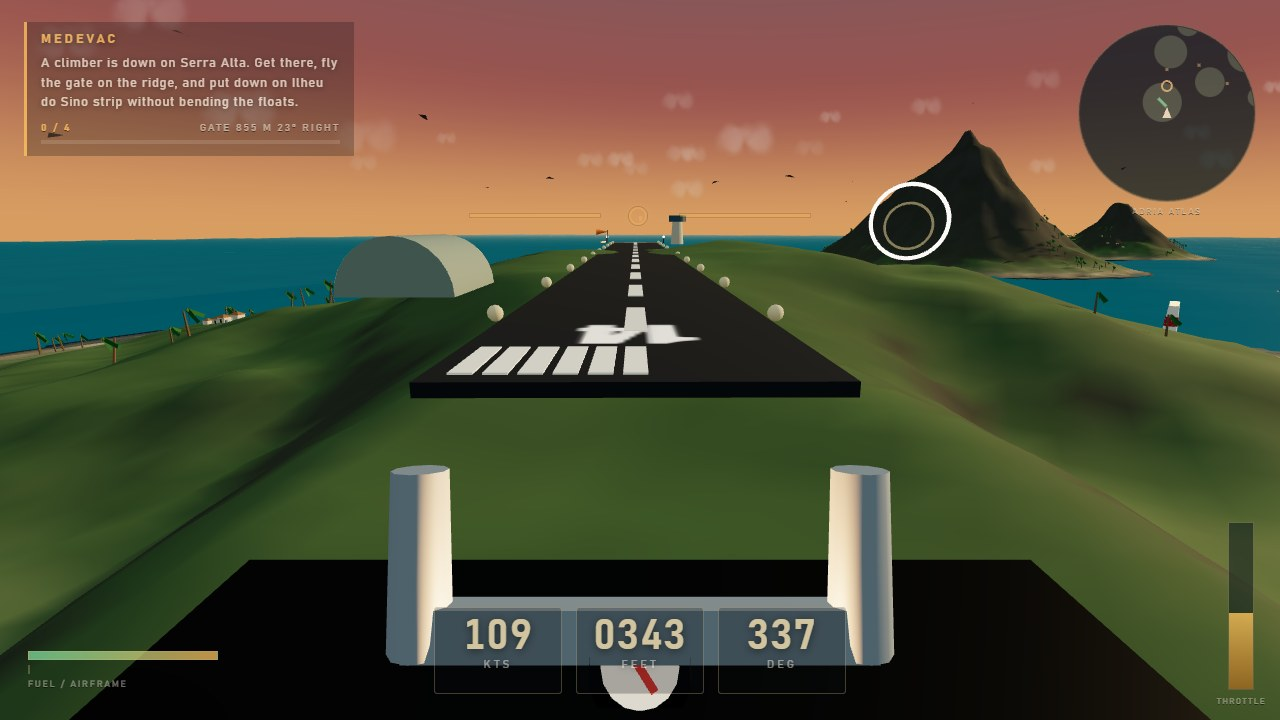
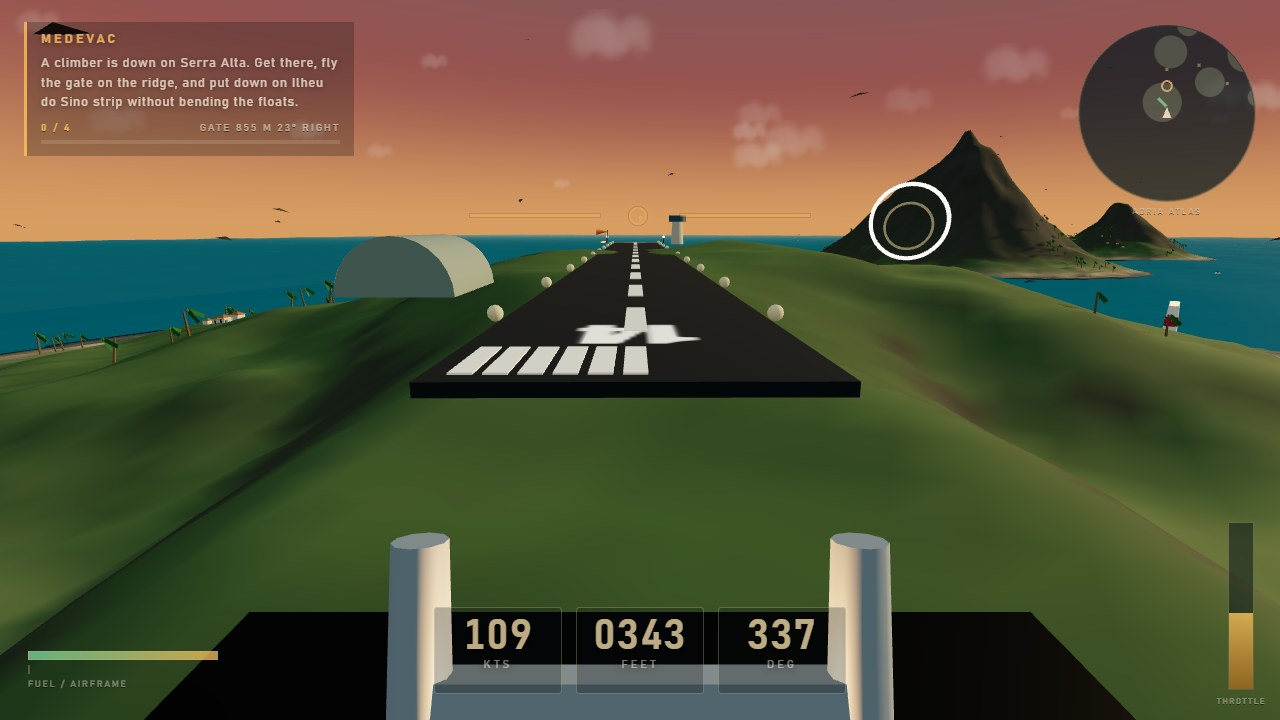
Touchdown spray and camera kick; shot-only cockpit framing; play HUD at full strength

diff --git a/game/src/main.js b/game/src/main.js
@@ -15,6 +15,7 @@ import { buildCourse } from './game/gates.js';
 import { createMission } from './game/missions.js';
 import { buildTraffic } from './game/traffic.js';
 import { createThreat } from './game/threat.js';
+import { createSpray } from './render/spray.js';
 import { createDamage } from './aircraft/damage.js';
 import { createHud } from './ui/hud.js';
 import { createScreens } from './ui/screens.js';
@@ -35,6 +36,7 @@ buildBridge(scene);
 const sea = terrain.children.find((child) => child.userData?.wave);
 const traffic = buildTraffic(scene);
 const threat = createThreat(scene);
+const spray = createSpray(scene);
 let damage = null;
 const rig = createCameraRig(camera);
 const cockpit = buildCockpit();
@@ -100,7 +102,6 @@ function begin() {
   chosen = pickKind();
   screens.hideAll();
   const hudEl = document.getElementById('hud');
-  hudEl.classList.add('shot-hud');
   hudEl.classList.remove('hidden-hud');
   mount(chosen);
   state = 'flying';
@@ -214,8 +215,18 @@ function frame() {
     elapsed += dt;
     audio.update(plane.throttle, plane.speed);
     plane.speedCap = damage?.power() ?? 1;
+    const wasDown = plane.onGround;
     if (state === 'flying') plane.update(dt, readInput());
     else plane.update(dt, inputIdle);
+    if (plane.onGround && !wasDown && plane.alive) {
+      const heavy = plane.lastImpact > 5;
+      const gear = plane.position.clone();
+      gear.y = plane.groundHeight + 0.3;
+      spray.burst(gear, heavy, plane.onWater);
+      rig.kick(heavy ? 1.5 : 0.7);
+      audio.thud(heavy ? 0.8 : 0.45);
+    }
+    spray.update(dt);
     rig.update(plane, dt, plane.speed / 140);
     damage?.update(dt);
     damage?.frame(dt);
@@ -259,7 +270,6 @@ function restart() {
   if (state === 'flying') return;
   screens.hideAll();
   const hudEl = document.getElementById('hud');
-  hudEl.classList.add('shot-hud');
   hudEl.classList.remove('hidden-hud');
   mount(chosen);
   state = 'flying';
@@ -333,6 +343,11 @@ if (shot) {
   plane.speed = pose.speed;
   plane.setThrottle(pose.throttle);
   rig.mode = pose.camera;
+  // A still frame wants the furniture out of the sightline: bigger and lower in the cockpit view.
+  if (pose.camera === 'cockpit') {
+    cockpit.scale.setScalar(1.2);
+    cockpit.position.y = -0.085;
+  }
   // Debug switches: ?hide=sea|clouds lets a probe isolate what a reviewer is seeing.
   const hide = new URLSearchParams(location.search).get('hide');
   if (hide) scene.traverse((o) => {

diff --git a/game/src/render/spray.js b/game/src/render/spray.js
@@ -1,0 +1,62 @@
+// Touchdown spray: water off the floats or dust off the strip, thrown from the gear on contact
+// and gone in a moment. Small on purpose — it reads as weight, not weather.
+
+import * as THREE from 'three';
+
+const COUNT = 14;
+
+export function createSpray(scene) {
+  const group = new THREE.Group();
+  scene.add(group);
+
+  const geometry = new THREE.BufferGeometry();
+  const positions = new Float32Array(COUNT * 3);
+  geometry.setAttribute('position', new THREE.BufferAttribute(positions, 3));
+  const material = new THREE.PointsMaterial({
+    size: 1.6,
+    sizeAttenuation: true,
+    transparent: true,
+    depthWrite: false,
+    opacity: 0,
+    color: '#ddd3c0',
+  });
+  const points = new THREE.Points(geometry, material);
+  group.add(points);
+
+  const velocity = Array.from({ length: COUNT }, () => new THREE.Vector3());
+  let life = 0;
+
+  return {
+    // Kick a burst out from under the floats: wet if the contact was on water.
+    burst(position, heavy, wet) {
+      material.color.set(wet ? '#e7f2f4' : '#ddd3c0');
+      life = heavy ? 1.1 : 0.7;
+      for (let i = 0; i < COUNT; i++) {
+        const side = i % 2 ? 1 : -1;
+        positions[i * 3] = position.x + side * (0.6 + Math.random() * 0.8);
+        positions[i * 3 + 1] = position.y + Math.random() * 0.5;
+        positions[i * 3 + 2] = position.z + (Math.random() - 0.5) * 2.4;
+        velocity[i].set(side * (3 + Math.random() * 5), 2 + Math.random() * (heavy ? 7 : 4), (Math.random() - 0.5) * 5);
+      }
+      geometry.attributes.position.needsUpdate = true;
+      material.opacity = 0.85;
+    },
+    update(dt) {
+      if (life <= 0) return;
+      life -= dt;
+      for (let i = 0; i < COUNT; i++) {
+        velocity[i].y -= 14 * dt;
+        velocity[i].multiplyScalar(0.94);
+        positions[i * 3] += velocity[i].x * dt;
+        positions[i * 3 + 1] += velocity[i].y * dt;
+        positions[i * 3 + 2] += velocity[i].z * dt;
+      }
+      geometry.attributes.position.needsUpdate = true;
+      material.opacity = Math.max(0, life * 0.8);
+    },
+    clear() {
+      life = 0;
+      material.opacity = 0;
+    },
+  };
+}
